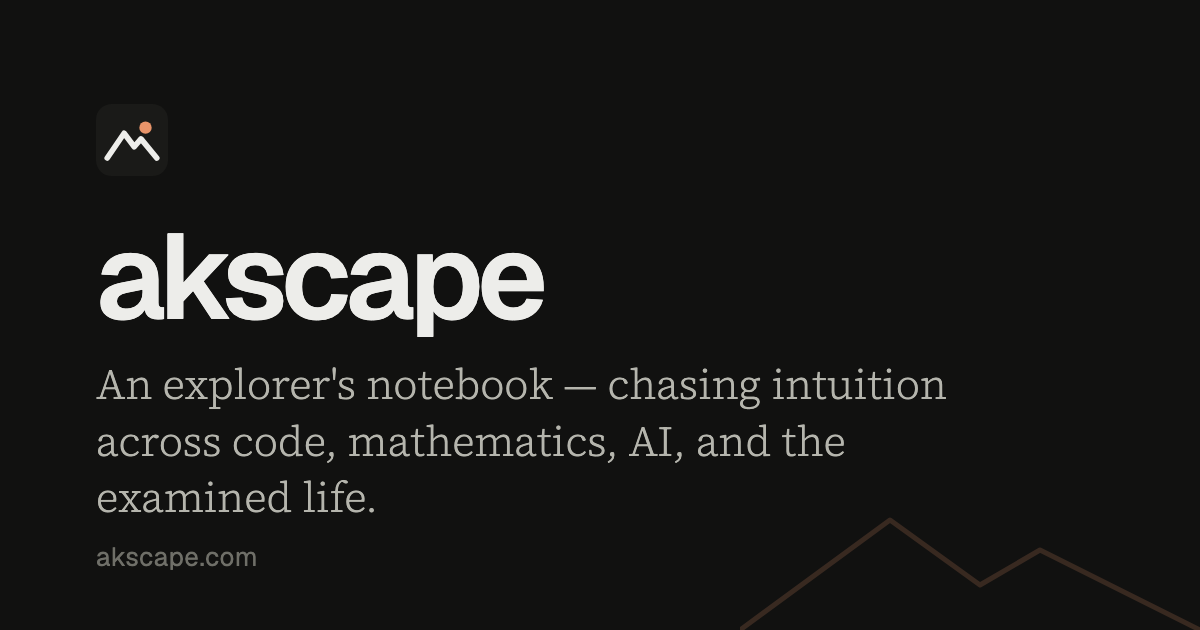
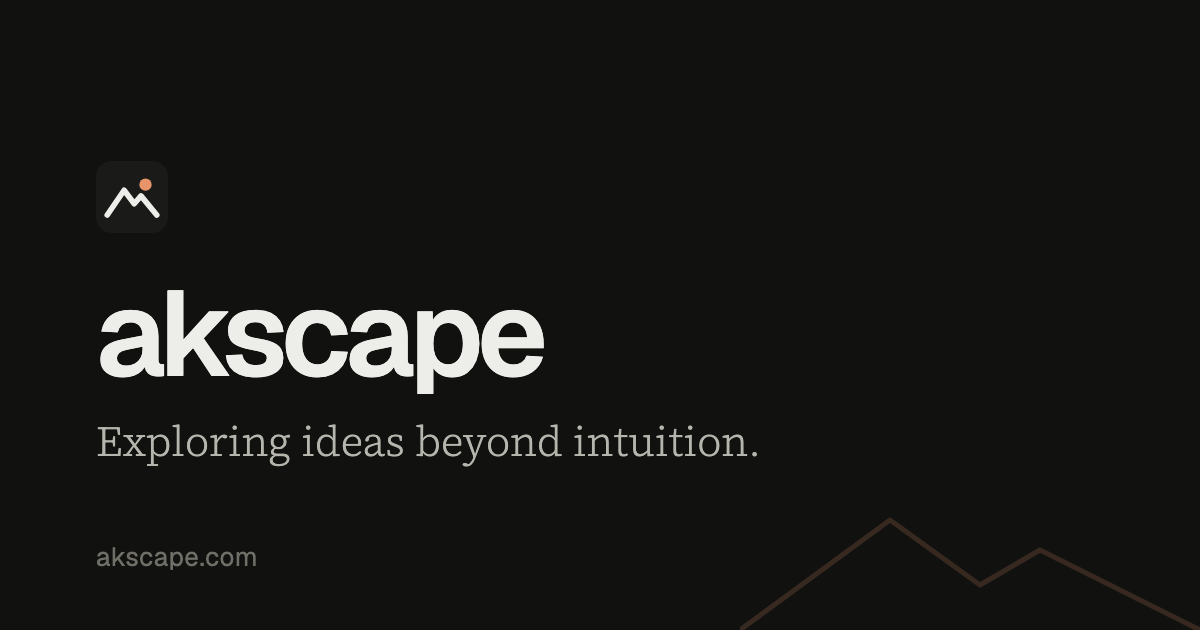
Update tagline and contact details; remove GEB review
- Tagline: "Exploring ideas beyond intuition." (home, meta, OG image)
- Remove home intro line
- Email: arunkv.official@gmail.com; remove GitHub link
- Remove sample Gödel, Escher, Bach review

Changed region(s): [[0.0617, 0.3619, 0.8017, 0.8143], [0.0925, 0.2714, 0.1233, 0.3317], [0.0925, 0.181, 0.1233, 0.2413]]

diff --git a/content/_index.md b/content/_index.md
@@ -1,6 +1,4 @@
 ---
 title: "akscape"
-description: "An explorer's notebook — chasing intuition across code, mathematics, AI, and the examined life."
+description: "Exploring ideas beyond intuition."
 ---
-
-Hi, I'm Arun. I write to understand — and to share the intuitions I find along the way.
